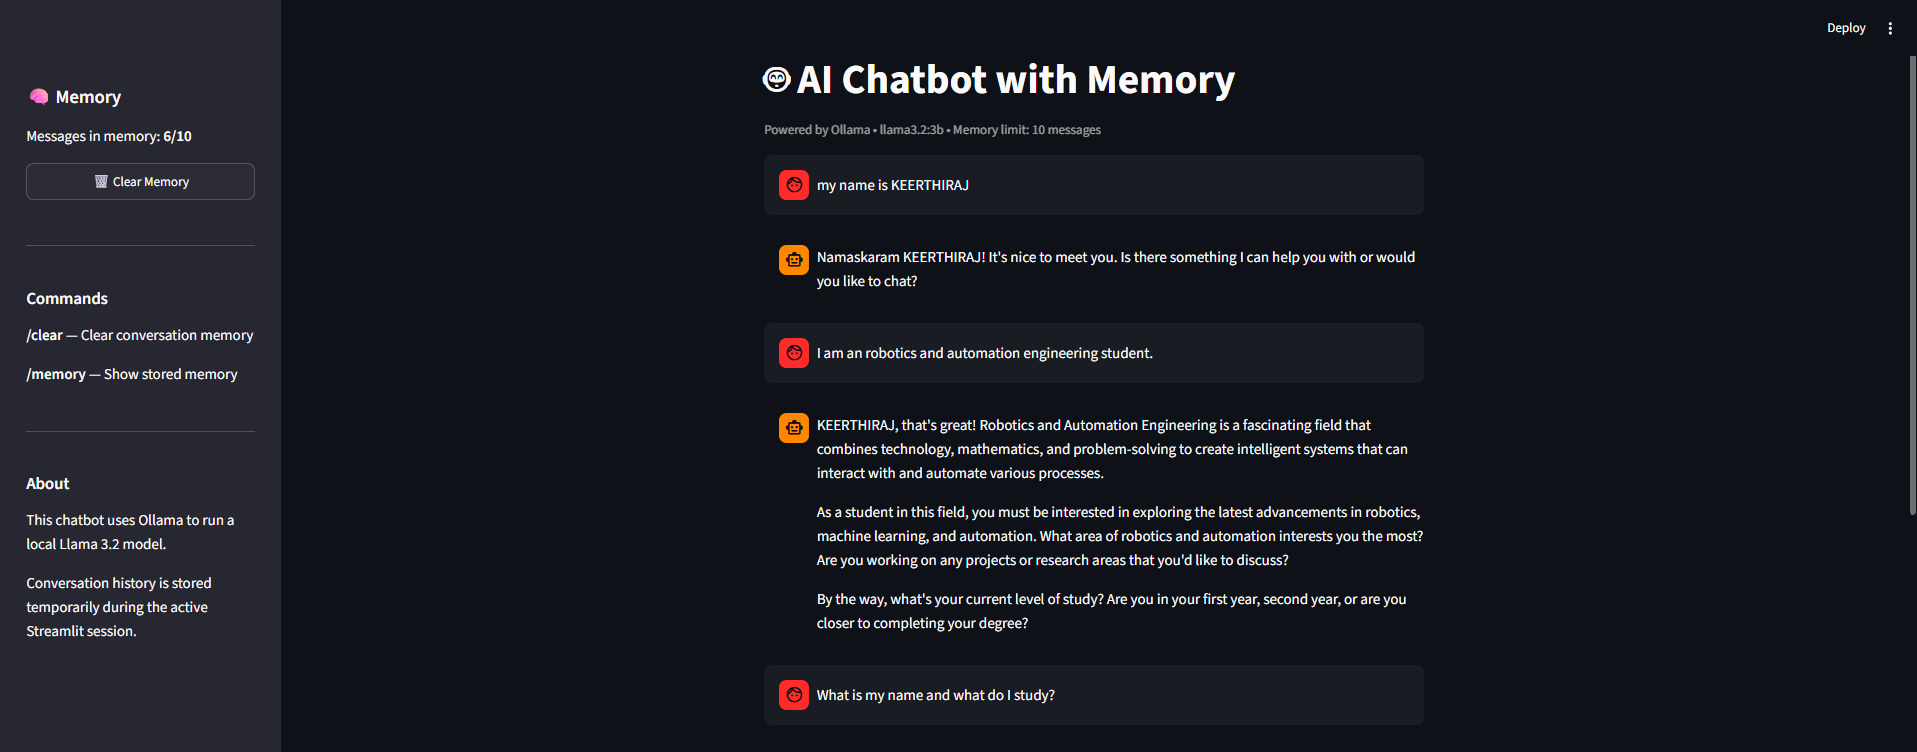
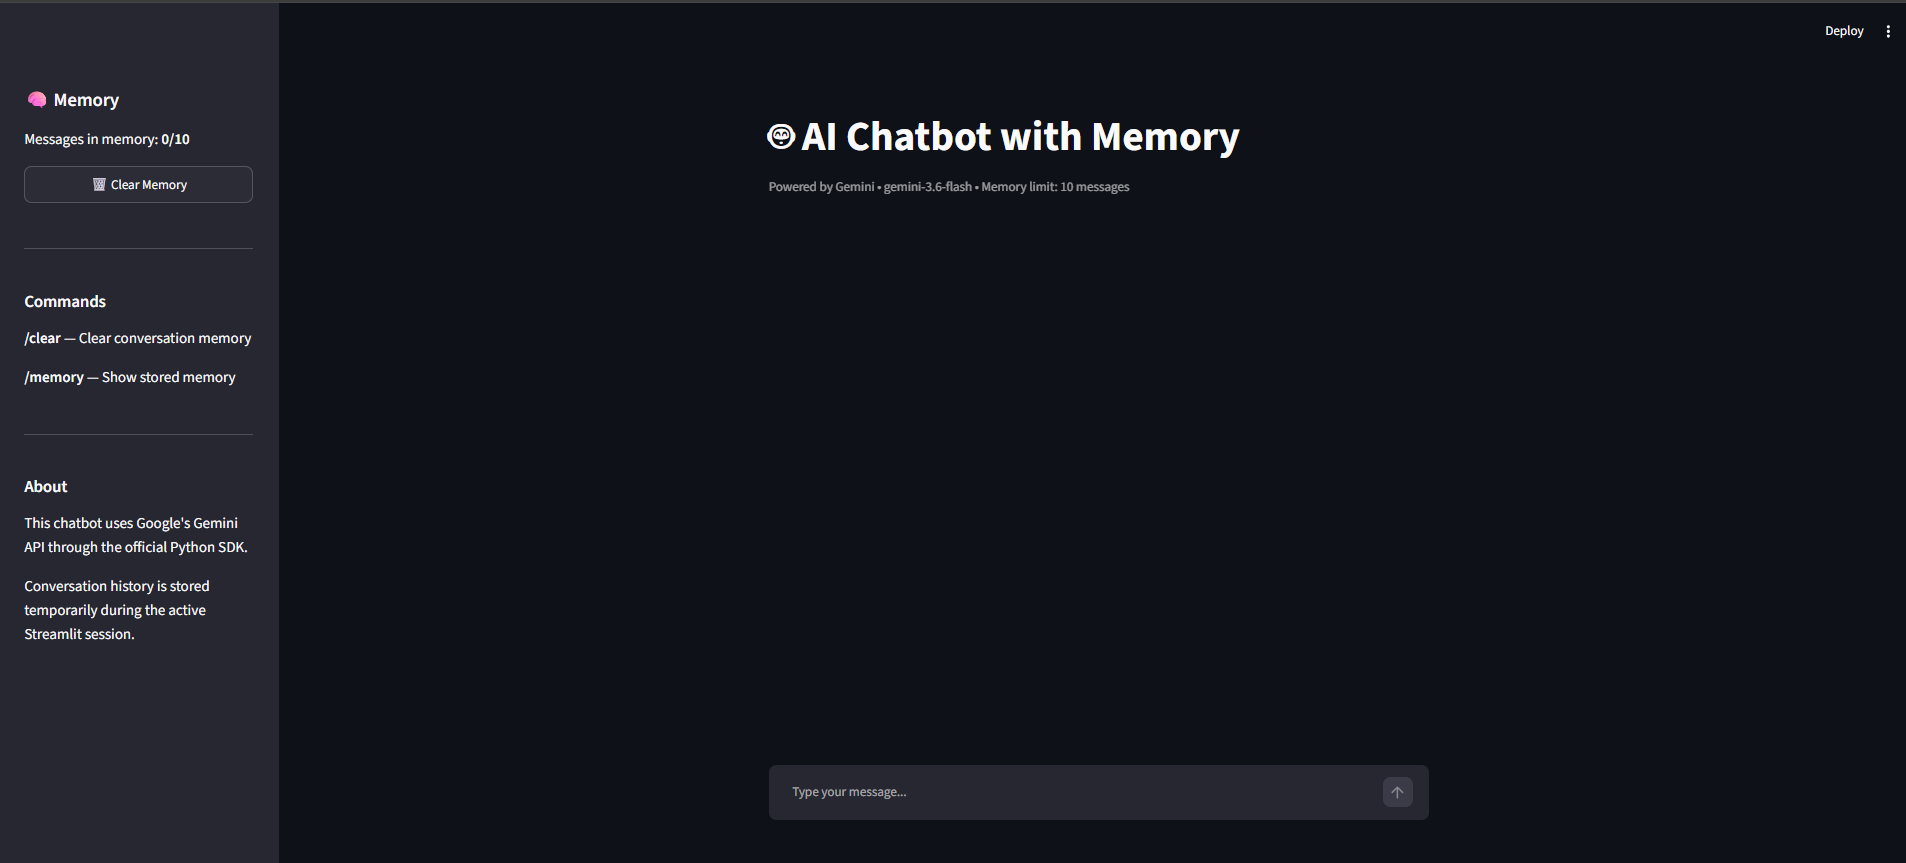
Add third project screenshot

diff --git a/README.md b/README.md
@@ -17,6 +17,20 @@ The chatbot maintains an in-memory conversation history during an active Streaml
 - ⚙ Configurable memory limit
 - 💻 Lightweight Python implementation
 
+## 📸 Screenshots
+
+### 1. Chatbot Interface
+
+![AI Chatbot Interface](demo-1.png)
+
+### 2. Memory Demonstration
+
+![Chatbot Memory Test](demo-2.png)
+
+### 3. Conversation Memory
+
+![Conversation Memory](demo-3.png)
+
 ## 🧠 How Memory Works
 
 The chatbot maintains conversation history using Streamlit session state.
